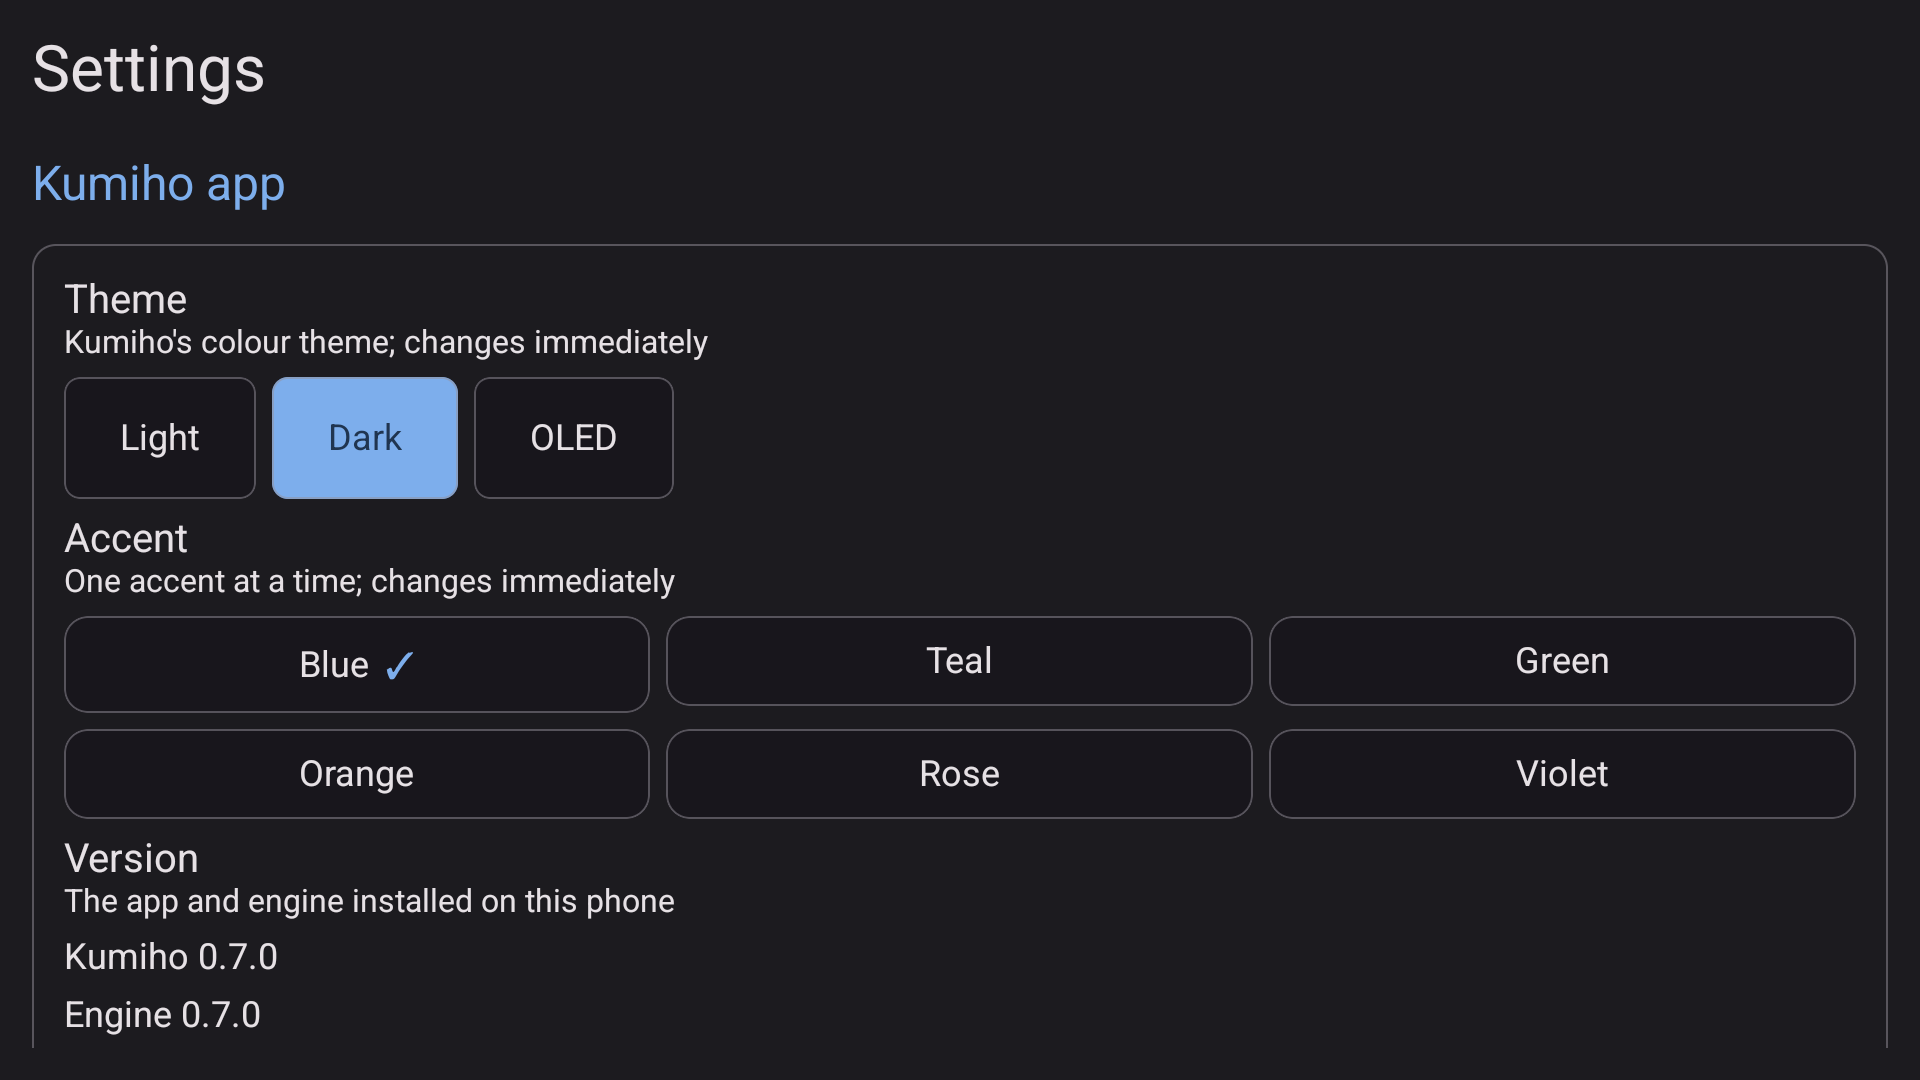
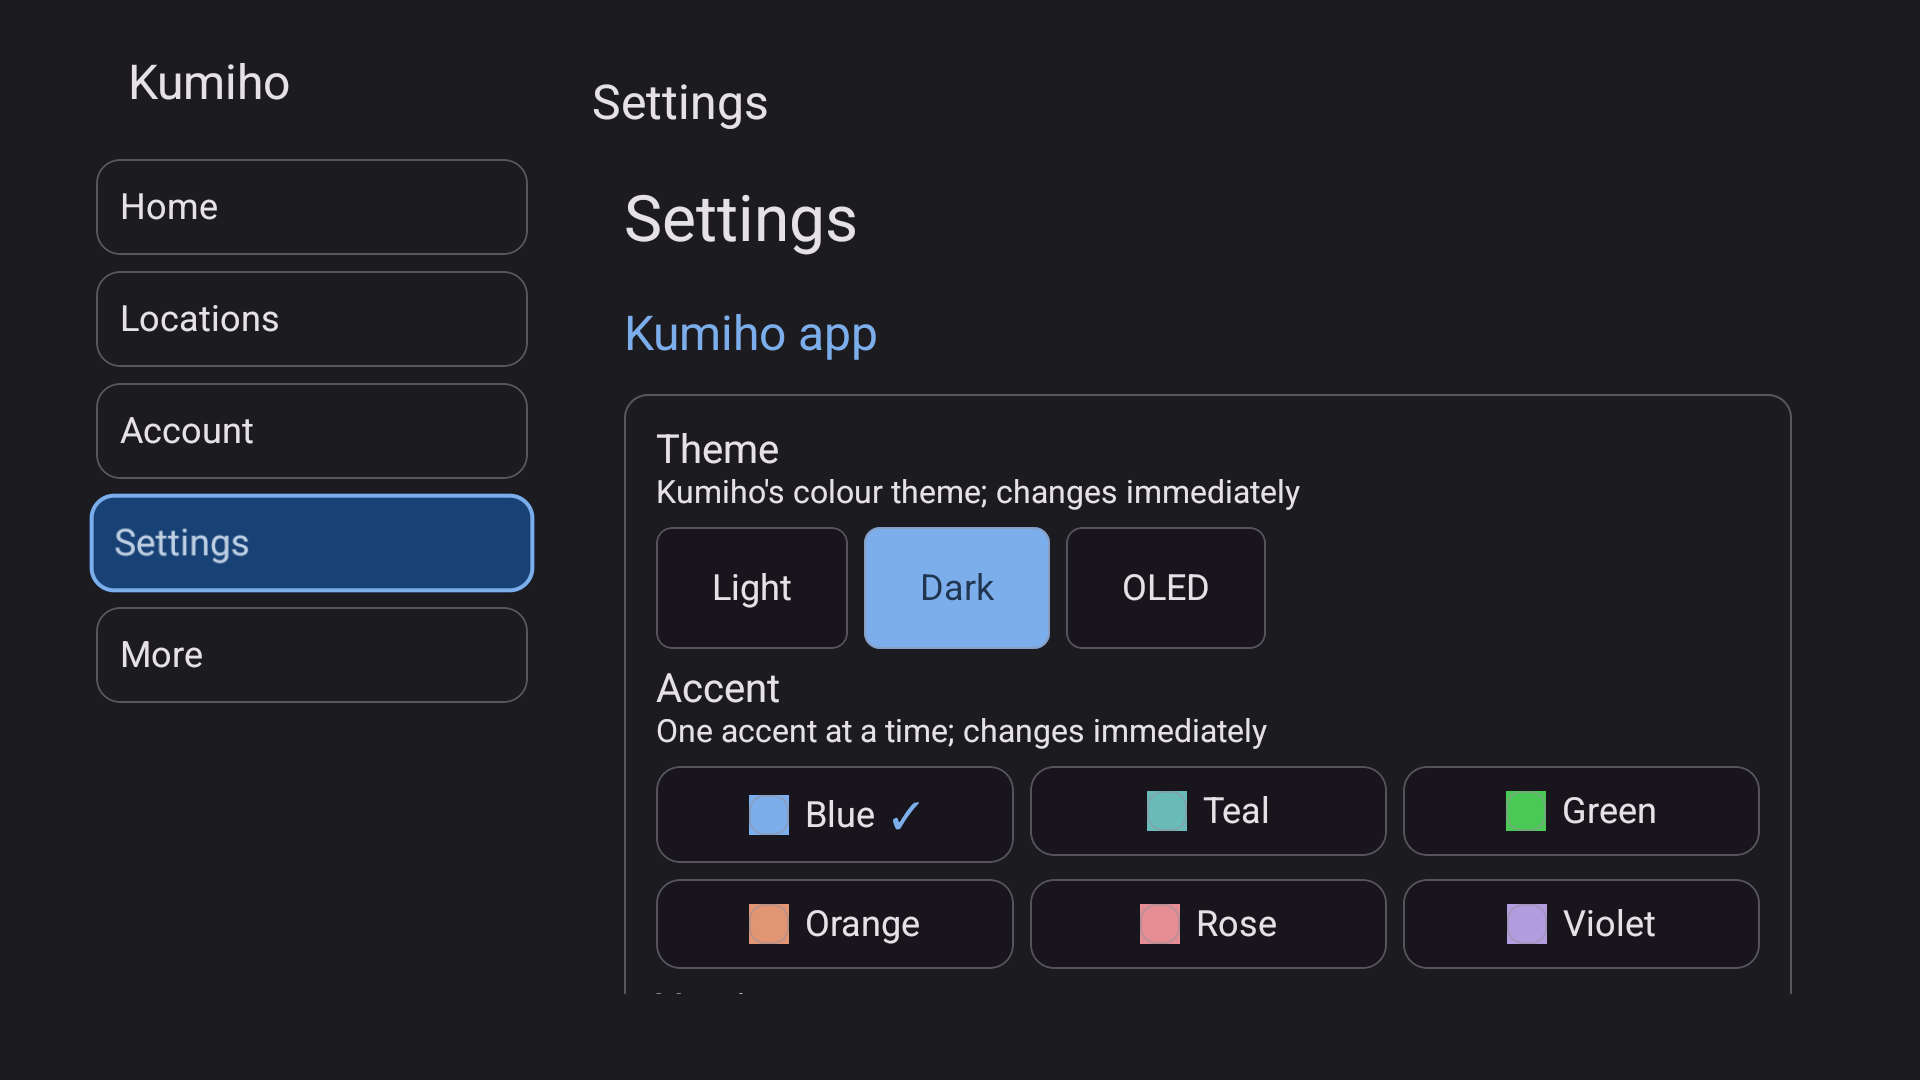
docs: refresh the Android screenshots through the real shell

diff --git a/android/app/src/androidTest/java/dev/benyamin/kumiho/tv/TvScreenshotsTest.kt b/android/app/src/androidTest/java/dev/benyamin/kumiho/tv/TvScreenshotsTest.kt
@@ -10,8 +10,11 @@ import androidx.compose.ui.Modifier
 import androidx.compose.ui.graphics.asAndroidBitmap
 import androidx.compose.ui.test.captureToImage
 import androidx.compose.ui.test.junit4.createAndroidComposeRule
+import androidx.compose.ui.test.onNodeWithTag
 import androidx.compose.ui.test.onRoot
+import androidx.compose.ui.test.requestFocus
 import androidx.test.platform.app.InstrumentationRegistry
+import dev.benyamin.kumiho.BuildConfig
 import dev.benyamin.kumiho.engine.ByteCounters
 import dev.benyamin.kumiho.engine.ByteRates
 import dev.benyamin.kumiho.engine.City
@@ -21,6 +24,7 @@ import dev.benyamin.kumiho.engine.Protocol
 import dev.benyamin.kumiho.engine.Quota
 import dev.benyamin.kumiho.engine.Server
 import dev.benyamin.kumiho.engine.Settings
+import dev.benyamin.kumiho.go.mobile.Mobile
 import dev.benyamin.kumiho.ui.dashboard.ConnectOptionsState
 import dev.benyamin.kumiho.ui.dashboard.DashboardActions
 import dev.benyamin.kumiho.ui.dashboard.DashboardPhase
@@ -35,16 +39,21 @@ import dev.benyamin.kumiho.ui.settings.SettingsActions
 import dev.benyamin.kumiho.ui.settings.SettingsAppState
 import dev.benyamin.kumiho.ui.settings.BatteryOptimization
 import dev.benyamin.kumiho.ui.settings.SettingsState
-import dev.benyamin.kumiho.ui.settings.UpdateState
+import dev.benyamin.kumiho.ui.shell.Destination
+import dev.benyamin.kumiho.ui.shell.ShellNavigation
 import dev.benyamin.kumiho.ui.setup.SetupActions
 import dev.benyamin.kumiho.ui.setup.SetupState
 import dev.benyamin.kumiho.ui.setup.SetupStep
+import dev.benyamin.kumiho.ui.theme.KumihoAccent
+import dev.benyamin.kumiho.ui.theme.PaletteMapping
 import dev.benyamin.kumiho.ui.theme.ThemeId
+import dev.benyamin.kumiho.ui.tv.TvAppShell
 import dev.benyamin.kumiho.ui.tv.dashboard.TvDashboardScreen
 import dev.benyamin.kumiho.ui.tv.locations.TvLocationsScreen
 import dev.benyamin.kumiho.ui.tv.settings.TvSettingsScreen
 import dev.benyamin.kumiho.ui.tv.setup.TvSetupScreen
 import dev.benyamin.kumiho.ui.tv.theme.TvKumihoTheme
+import dev.benyamin.kumiho.ui.tv.tvRailTag
 import dev.benyamin.kumiho.vpn.SplitMode
 import java.io.File
 import org.junit.Assert.assertTrue
@@ -69,43 +78,70 @@ class TvScreenshotsTest : TvTestBase() {
         output.mkdirs()
 
         capture(output, "home")
-        rule.runOnIdle { screen = Screen.Options }
+        show(Screen.Options)
         capture(output, "options")
-        rule.runOnIdle { screen = Screen.Setup }
+        show(Screen.Setup)
         capture(output, "setup")
-        rule.runOnIdle { screen = Screen.Locations }
+        show(Screen.Locations)
         capture(output, "locations")
-        rule.runOnIdle { screen = Screen.Settings }
+        show(Screen.Settings)
         capture(output, "settings")
     }
 
     private var screen by mutableStateOf(Screen.Home)
+    private val nav = ShellNavigation(Destination.Home)
+
+    /** Selects the page and its rail tab; setup lives outside the shell. */
+    private fun show(next: Screen) {
+        rule.runOnIdle {
+            screen = next
+            next.destination?.let(nav::selectTab)
+        }
+        rule.waitForIdle()
+        if (next.railFocus) {
+            // A page that takes focus by itself (the locations list, the options
+            // panel) keeps it; otherwise the remote is still on the rail item.
+            rule.onNodeWithTag(tvRailTag(nav.state.value.tab)).requestFocus()
+            rule.waitForIdle()
+        }
+    }
 
     @androidx.compose.runtime.Composable
     private fun CaptureFrame() {
         TvKumihoTheme(palette(theme)) {
-            Surface(
-                color = androidx.tv.material3.MaterialTheme.colorScheme.background,
-                modifier = Modifier.fillMaxSize(),
-            ) {
-                when (screen) {
-                    Screen.Home -> TvDashboardScreen(state = dashboardState(), actions = dashboardActions())
-                    Screen.Options -> TvDashboardScreen(state = optionsState(), actions = dashboardActions())
-                    Screen.Setup -> TvSetupScreen(state = SetupState(step = SetupStep.CONSENT), actions = setupActions())
-                    Screen.Locations -> TvLocationsScreen(state = locationsState(), actions = locationsActions())
-                    Screen.Settings -> TvSettingsScreen(
-                        state = settingsState(),
-                        appState = SettingsAppState(
-                            theme = theme,
-                            splitMode = SplitMode.EXCLUDE,
-                            splitAppCount = 3,
-                            bypassEnabled = true,
-                            bypassLoaded = true,
-                            battery = BatteryOptimization.OPTIMIZED,
-                        ),
-                        actions = settingsActions(),
-                    )
+            if (screen == Screen.Setup) {
+                Surface(
+                    color = androidx.tv.material3.MaterialTheme.colorScheme.background,
+                    modifier = Modifier.fillMaxSize(),
+                ) {
+                    TvSetupScreen(state = SetupState(step = SetupStep.CONSENT), actions = setupActions())
                 }
+            } else {
+                // The real shell, so the capture shows the rail, the top bar and
+                // the overscan frame the app draws.
+                TvAppShell(
+                    nav = nav,
+                    home = {
+                        if (screen == Screen.Options) {
+                            TvDashboardScreen(state = optionsState(), actions = dashboardActions())
+                        } else {
+                            TvDashboardScreen(state = dashboardState(), actions = dashboardActions())
+                        }
+                    },
+                    locations = {
+                        TvLocationsScreen(state = locationsState(), actions = locationsActions())
+                    },
+                    account = {},
+                    settings = {
+                        TvSettingsScreen(
+                            state = settingsState(),
+                            appState = appState(),
+                            actions = settingsActions(),
+                        )
+                    },
+                    logs = {},
+                    diagnostics = {},
+                )
             }
         }
     }
@@ -214,6 +250,8 @@ class TvScreenshotsTest : TvTestBase() {
         onRetryNotice = {},
     )
 
+    private val releaseVersion = BuildConfig.VERSION_NAME.removeSuffix("-debug")
+
     private fun settingsState() = SettingsState(
         loading = false,
         loaded = true,
@@ -241,9 +279,21 @@ class TvScreenshotsTest : TvTestBase() {
             solveChallenges = true,
             keepaliveProfile = "standard",
         ),
-        appVersion = "0.7.0",
-        engineVersion = "0.7.0",
-        update = UpdateState.Available("0.7.0", "https://example.invalid/release"),
+        appVersion = releaseVersion,
+        engineVersion = "v$releaseVersion",
+    )
+
+    private fun appState() = SettingsAppState(
+        theme = theme,
+        accent = KumihoAccent.BLUE,
+        accentPreviews = KumihoAccent.entries.associateWith { accent ->
+            PaletteMapping.fromJson(Mobile.palette(theme.id, accent.id), theme, accent).primary
+        },
+        splitMode = SplitMode.EXCLUDE,
+        splitAppCount = 3,
+        bypassEnabled = true,
+        bypassLoaded = true,
+        battery = BatteryOptimization.OPTIMIZED,
     )
 
     private fun settingsActions() = SettingsActions(
@@ -275,7 +325,13 @@ class TvScreenshotsTest : TvTestBase() {
         ),
     )
 
-    private enum class Screen { Home, Options, Setup, Locations, Settings }
+    private enum class Screen(val destination: Destination?, val railFocus: Boolean = true) {
+        Home(Destination.Home),
+        Options(Destination.Home, railFocus = false),
+        Setup(null, railFocus = false),
+        Locations(Destination.Locations, railFocus = false),
+        Settings(Destination.Settings),
+    }
 
     private companion object {
         const val GIB = 1024L * 1024L * 1024L

diff --git a/android/app/src/androidTest/java/dev/benyamin/kumiho/ui/settings/SettingsScreenshotsTest.kt b/android/app/src/androidTest/java/dev/benyamin/kumiho/ui/settings/SettingsScreenshotsTest.kt
@@ -2,13 +2,9 @@ package dev.benyamin.kumiho.ui.settings
 
 import android.graphics.Bitmap
 import androidx.activity.ComponentActivity
-import androidx.compose.foundation.layout.fillMaxSize
-import androidx.compose.material3.MaterialTheme
-import androidx.compose.material3.Surface
 import androidx.compose.runtime.getValue
 import androidx.compose.runtime.mutableStateOf
 import androidx.compose.runtime.setValue
-import androidx.compose.ui.Modifier
 import androidx.compose.ui.graphics.asAndroidBitmap
 import androidx.compose.ui.test.captureToImage
 import androidx.compose.ui.test.hasTestTag
@@ -19,7 +15,11 @@ import androidx.compose.ui.test.performClick
 import androidx.compose.ui.test.performScrollToNode
 import androidx.compose.ui.test.performTextReplacement
 import androidx.test.platform.app.InstrumentationRegistry
+import dev.benyamin.kumiho.BuildConfig
 import dev.benyamin.kumiho.engine.Settings
+import dev.benyamin.kumiho.ui.shell.AppShell
+import dev.benyamin.kumiho.ui.shell.Destination
+import dev.benyamin.kumiho.ui.shell.ShellNavState
 import dev.benyamin.kumiho.ui.theme.KumihoAccent
 import dev.benyamin.kumiho.ui.theme.KumihoTheme
 import dev.benyamin.kumiho.ui.theme.PaletteMapping
@@ -45,6 +45,7 @@ class SettingsScreenshotsTest {
     @get:Rule
     val rule = createAndroidComposeRule<ComponentActivity>()
 
+    private val releaseVersion = BuildConfig.VERSION_NAME.removeSuffix("-debug")
     private var theme by mutableStateOf(ThemeId.LIGHT)
     private var state by mutableStateOf(sceneState())
     private var app by mutableStateOf(appState(ThemeId.LIGHT))
@@ -59,12 +60,17 @@ class SettingsScreenshotsTest {
                     KumihoAccent.BLUE,
                 ),
             ) {
-                Surface(
-                    color = MaterialTheme.colorScheme.background,
-                    modifier = Modifier.fillMaxSize(),
-                ) {
-                    SettingsScreen(state = state, appState = app, actions = noOpActions())
-                }
+                // The real shell, so the capture shows the same top and bottom
+                // bars the app draws.
+                AppShell(
+                    state = ShellNavState(tab = Destination.Settings),
+                    onSelectTab = {},
+                    onOpenMoreRoute = {},
+                    onBack = { false },
+                    settings = {
+                        SettingsScreen(state = state, appState = app, actions = noOpActions())
+                    },
+                )
             }
         }
         val output = InstrumentationRegistry.getInstrumentation()
@@ -124,12 +130,10 @@ class SettingsScreenshotsTest {
         loading = false,
         loaded = true,
         snapshot = SETTINGS,
-        update = UpdateState.Available(
-            version = "0.6.0",
-            url = "https://github.com/benyamin-git/Kumiho/releases/tag/v0.6.0",
-        ),
-        appVersion = "0.5.0-debug",
-        engineVersion = "0.5.0",
+        // A release install shows the tag; the debug suffix and the git
+        // describe detail are build noise.
+        appVersion = releaseVersion,
+        engineVersion = "v$releaseVersion",
     )
 
     private fun appState(theme: ThemeId) = SettingsAppState(

diff --git a/android/app/src/androidTest/java/dev/benyamin/kumiho/ui/locations/LocationsScreenshotsTest.kt b/android/app/src/androidTest/java/dev/benyamin/kumiho/ui/locations/LocationsScreenshotsTest.kt
@@ -2,13 +2,9 @@ package dev.benyamin.kumiho.ui.locations
 
 import android.graphics.Bitmap
 import androidx.activity.ComponentActivity
-import androidx.compose.foundation.layout.fillMaxSize
-import androidx.compose.material3.MaterialTheme
-import androidx.compose.material3.Surface
 import androidx.compose.runtime.getValue
 import androidx.compose.runtime.mutableStateOf
 import androidx.compose.runtime.setValue
-import androidx.compose.ui.Modifier
 import androidx.compose.ui.graphics.asAndroidBitmap
 import androidx.compose.ui.test.captureToImage
 import androidx.compose.ui.test.junit4.createAndroidComposeRule
@@ -18,6 +14,9 @@ import dev.benyamin.kumiho.engine.City
 import dev.benyamin.kumiho.engine.Country
 import dev.benyamin.kumiho.engine.Protocol
 import dev.benyamin.kumiho.engine.Server
+import dev.benyamin.kumiho.ui.shell.AppShell
+import dev.benyamin.kumiho.ui.shell.Destination
+import dev.benyamin.kumiho.ui.shell.ShellNavState
 import dev.benyamin.kumiho.ui.theme.KumihoAccent
 import dev.benyamin.kumiho.ui.theme.KumihoTheme
 import dev.benyamin.kumiho.ui.theme.PaletteMapping
@@ -55,14 +54,15 @@ class LocationsScreenshotsTest {
                     KumihoAccent.BLUE,
                 ),
             ) {
-                // The app shell owns the Scaffold background; the harness adds
-                // one so a dark theme is not drawn on the window's white.
-                Surface(
-                    color = MaterialTheme.colorScheme.background,
-                    modifier = Modifier.fillMaxSize(),
-                ) {
-                    LocationsScreen(state = state, actions = noOpActions())
-                }
+                // The real shell, so the capture shows the same top and bottom
+                // bars the app draws.
+                AppShell(
+                    state = ShellNavState(tab = Destination.Locations),
+                    onSelectTab = {},
+                    onOpenMoreRoute = {},
+                    onBack = { false },
+                    locations = { LocationsScreen(state = state, actions = noOpActions()) },
+                )
             }
         }
         val output = InstrumentationRegistry.getInstrumentation()

diff --git a/android/app/src/androidTest/java/dev/benyamin/kumiho/ui/dashboard/DashboardScreenshotsTest.kt b/android/app/src/androidTest/java/dev/benyamin/kumiho/ui/dashboard/DashboardScreenshotsTest.kt
@@ -2,13 +2,9 @@ package dev.benyamin.kumiho.ui.dashboard
 
 import android.graphics.Bitmap
 import androidx.activity.ComponentActivity
-import androidx.compose.foundation.layout.fillMaxSize
-import androidx.compose.material3.MaterialTheme
-import androidx.compose.material3.Surface
 import androidx.compose.runtime.getValue
 import androidx.compose.runtime.mutableStateOf
 import androidx.compose.runtime.setValue
-import androidx.compose.ui.Modifier
 import androidx.compose.ui.graphics.asAndroidBitmap
 import androidx.compose.ui.test.captureToImage
 import androidx.compose.ui.test.junit4.createAndroidComposeRule
@@ -21,6 +17,9 @@ import dev.benyamin.kumiho.engine.Country
 import dev.benyamin.kumiho.engine.EngineStatus
 import dev.benyamin.kumiho.engine.Quota
 import dev.benyamin.kumiho.engine.Server
+import dev.benyamin.kumiho.ui.shell.AppShell
+import dev.benyamin.kumiho.ui.shell.Destination
+import dev.benyamin.kumiho.ui.shell.ShellNavState
 import dev.benyamin.kumiho.ui.theme.KumihoAccent
 import dev.benyamin.kumiho.ui.theme.KumihoTheme
 import dev.benyamin.kumiho.ui.theme.PaletteMapping
@@ -57,14 +56,13 @@ class DashboardScreenshotsTest {
                     KumihoAccent.BLUE,
                 ),
             ) {
-                // The app shell owns the Scaffold background; the harness adds
-                // one so a dark theme is not drawn on the window's white.
-                Surface(
-                    color = MaterialTheme.colorScheme.background,
-                    modifier = Modifier.fillMaxSize(),
-                ) {
-                    DashboardScreen(state = state, actions = noOpActions())
-                }
+                AppShell(
+                    state = ShellNavState(tab = Destination.Home),
+                    onSelectTab = {},
+                    onOpenMoreRoute = {},
+                    onBack = { false },
+                    home = { DashboardScreen(state = state, actions = noOpActions()) },
+                )
             }
         }
         val output = InstrumentationRegistry.getInstrumentation()

diff --git a/TODO.md b/TODO.md
@@ -131,17 +131,17 @@ Android TV, Windows GUI and the TUI.
   - Added [docs/releasing.md](docs/releasing.md) to the release checklist so
     the About panel is reviewed whenever capabilities change.
 
-- [ ] **C7 — Regenerate the Android Locations screenshots**
+- [x] **C7 — Regenerate the Android Locations screenshots**
   - Problem: `screenshots/android-phone/locations.png` and
     `screenshots/android-tv/locations.png` are v0.9.0 captures, but v0.9.1
     draws every server as its own card, so both images no longer match the app.
-  - Action: run `make android-emulator-test` and
-    `make android-tv-emulator-test`, pull `locations-screenshots` and
-    `tv-screenshots` from the debug app's external files directory, and copy
-    the chosen frames over the README assets as described in
-    `scripts/screenshots/README.md`.
-  - Deferred: Gradle and emulator runs are excluded from the T3 release
-    thread, so the images are refreshed in a later session.
+  - Done (2026-11-02): every phone and TV capture now renders through
+    `AppShell` / `TvAppShell` instead of the bare screen, so the bottom bar,
+    the rail, the top bar and the overscan frame appear. The TV Settings
+    capture passes `accentPreviews`, so the accent buttons show their colour
+    swatches like the app, and both Settings captures read
+    `BuildConfig.VERSION_NAME` instead of hardcoded versions. All six images
+    were regenerated from the running phone and TV emulators.
 
 ## Engineering follow-ups
 

diff --git a/scripts/screenshots/README.md b/scripts/screenshots/README.md
@@ -87,7 +87,11 @@ and copy `t13-{home,locations,settings}-dark.png` to
 `screenshots/android-tv/{home,locations,settings}.png`.
 
 The tests render the real Compose screens with fixed sample data at the
-emulators' native sizes (1080×2400 phone, 1920×1080 TV).
+emulators' native sizes (1080×2400 phone, 1920×1080 TV). The phone captures go
+through `AppShell` and the TV captures through `TvAppShell`, so the top bar, the
+bottom bar (phone), the rail and the overscan frame (TV) are the ones the app
+draws. The version rows read `BuildConfig.VERSION_NAME` with the debug suffix
+stripped, so a regenerated capture never shows a stale release.
 
 The script leaves `dist/kumiho-gui-web-linux-amd64` built with the release
 version label. Run `make build-web` to restore the normal git-describe build.
